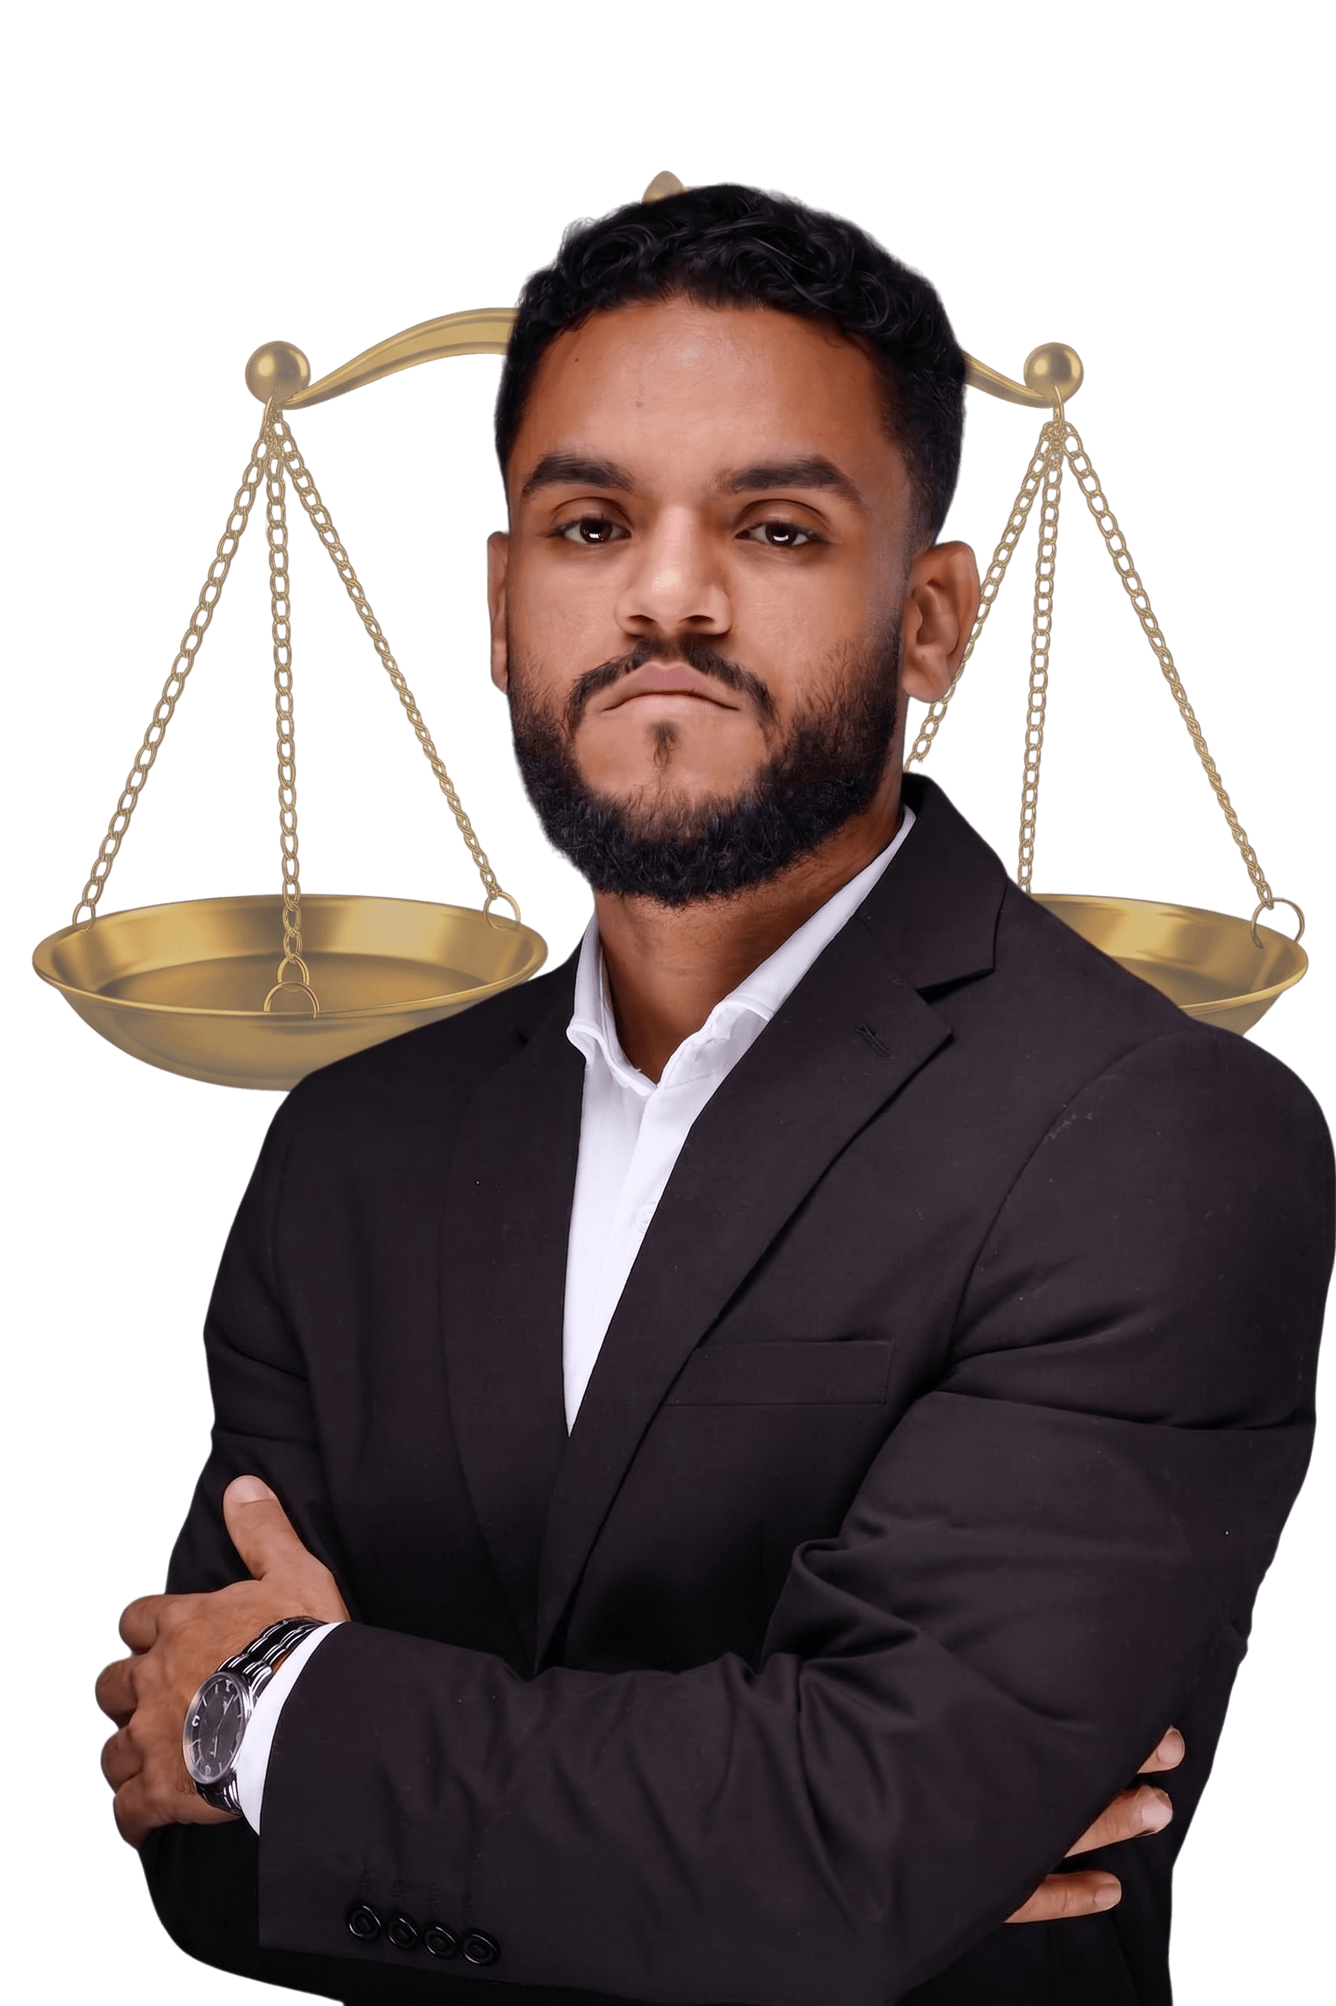
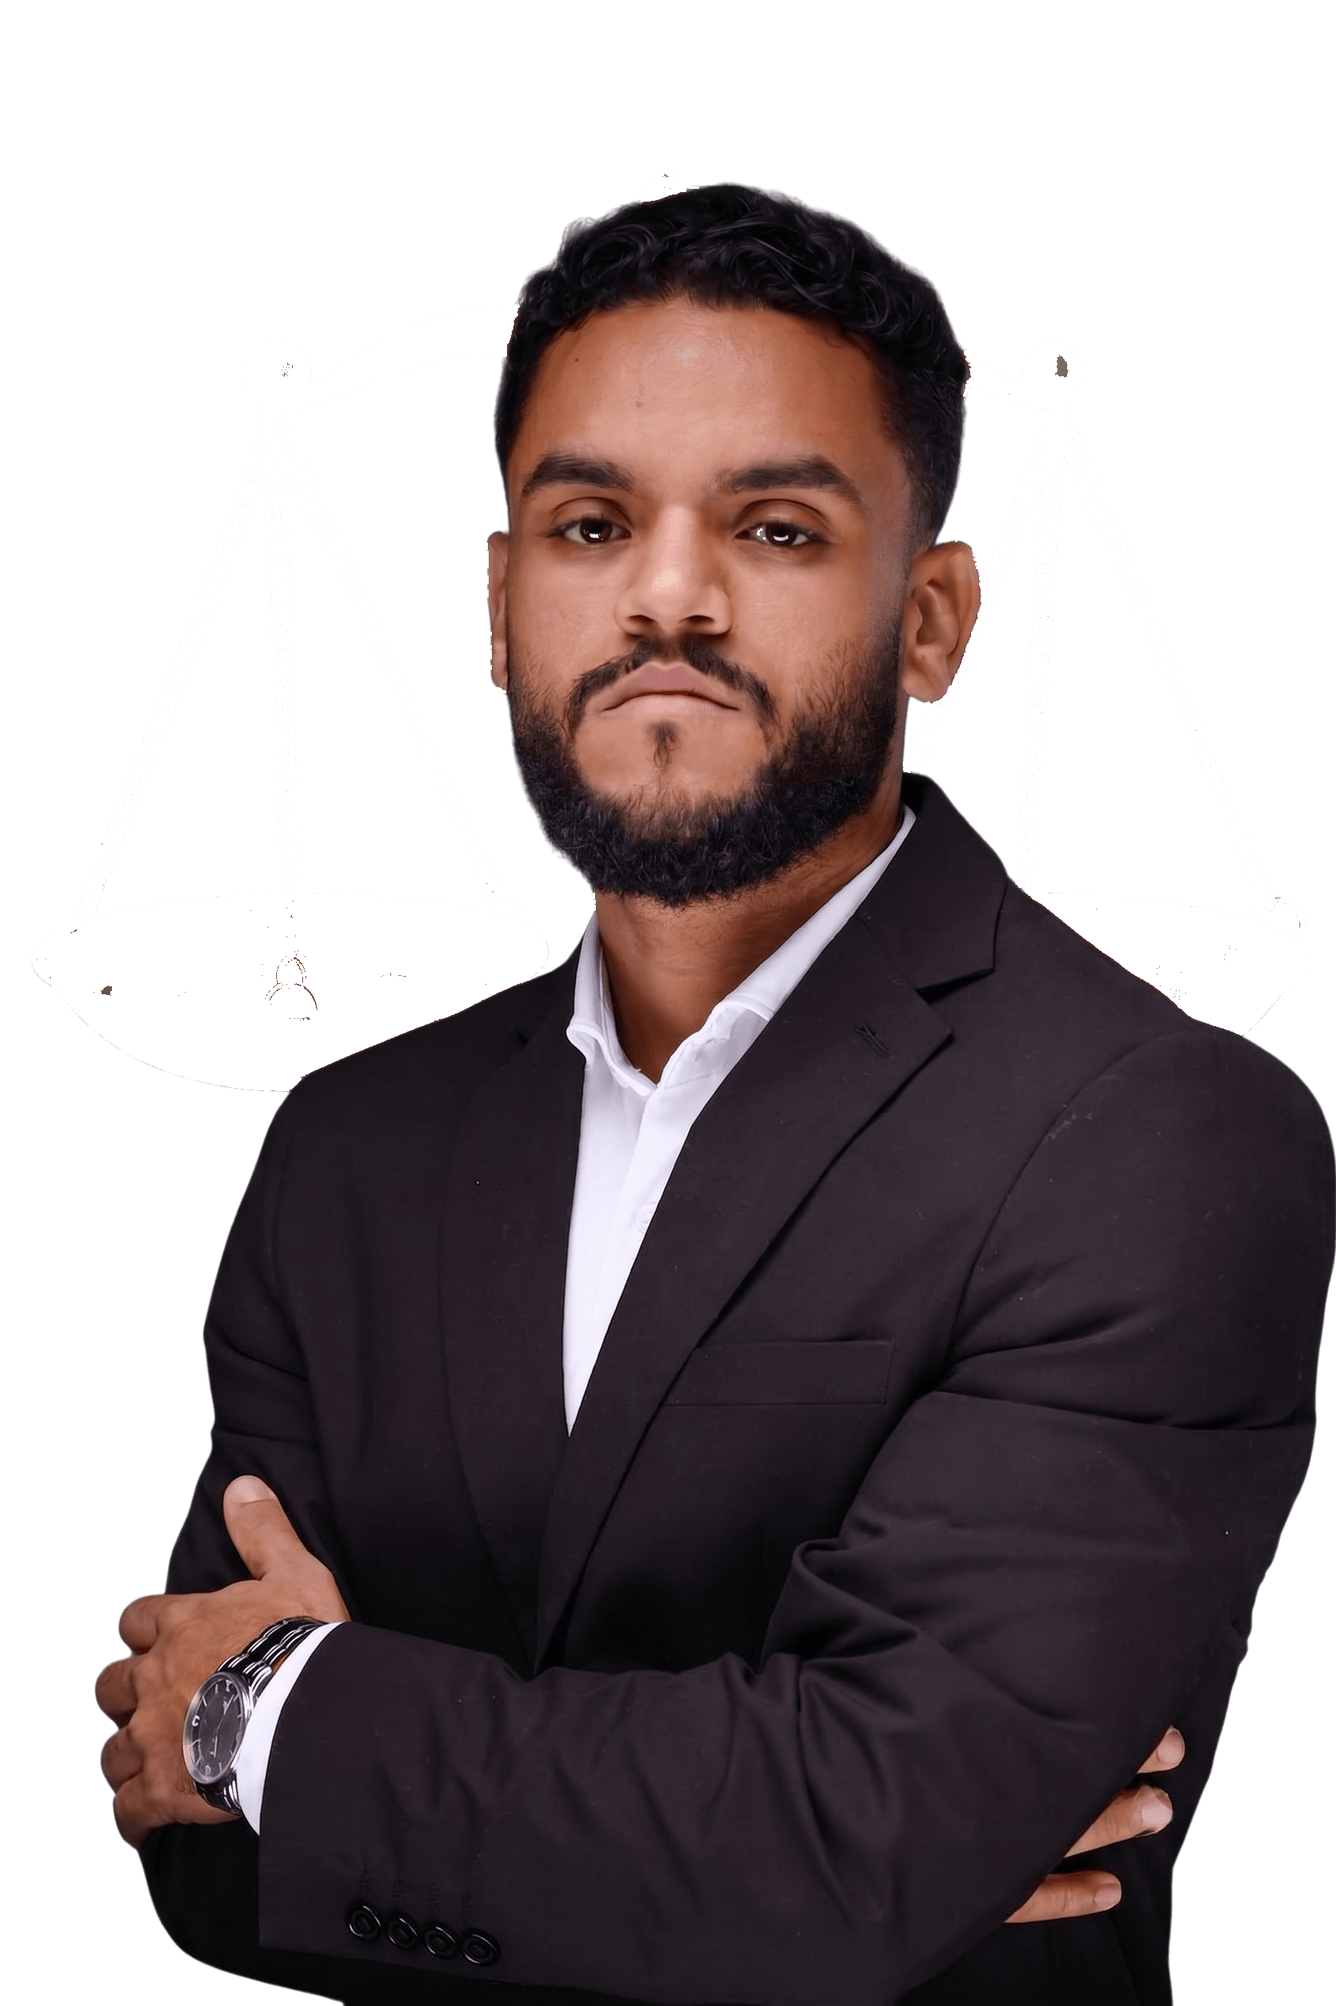
Marca de escritório: Kovaleski Advogados, foto sem balança, 9ª situação
Quatro mudanças pedidas pelo Douglas, todas de leitura "escritório"
em vez de "advogado autônomo":

- Cabeçalho e rodapé assinam "Kovaleski Advogados" / "Advocacia
  Criminal e Empresarial", no lugar de "Douglas Kovaleski" /
  "Advocacia Criminal". Nome pessoal continua em título de página e
  no schema.org, onde a autoridade individual importa.
- hero.webp perdeu a balança da justiça que ficava atrás dele
  (isolada por cor e removida via script, arquivo original preservado
  no histórico do git).
- Nova situação "Atendimento em delegacia" (ordem 3, entre habeas
  corpus e intimação para depor) fecha a grade em 3x3 e resolve uma
  frente da lista original do Douglas que não tinha página própria.
  Demais situações renumeradas.
- "Trabalho sozinho" removido de /sobre/, do rodapé e do passo 1 do
  fluxo na home (ele tem parceiros agora). Trocado por "quem conduz
  o seu caso" / voz institucional "nós", sem inventar número de
  sócio ou funcionário.

_memoria/empresa.md e identidade/design-guide.md atualizados para as
próximas peças (carrossel, post) já nascerem com a marca certa.

diff --git a/site/astro-site/src/consts.ts b/site/astro-site/src/consts.ts
@@ -7,7 +7,7 @@
 export const SITE = {
   nome: 'Douglas Kovaleski',
   assinatura: 'Kovaleski Advogados',
-  subtitulo: 'Advocacia Criminal no Rio de Janeiro',
+  subtitulo: 'Advocacia Criminal e Empresarial no Rio de Janeiro',
   /** Exigida pelo Provimento 205/2021 do CFOB em toda peça de publicidade. */
   oab: 'OAB/RJ 249.333',
   url: 'https://kovaleskiadvogados.netlify.app',
@@ -40,7 +40,7 @@ export const ETAPAS = [
     numero: '01',
     titulo: 'Contato',
     texto:
-      'Você fala direto comigo pelo WhatsApp. Sem intermediário, sem central de atendimento.',
+      'Você fala direto com quem vai cuidar do seu caso pelo WhatsApp. Sem intermediário, sem central de atendimento.',
   },
   {
     numero: '02',

diff --git a/_memoria/empresa.md b/_memoria/empresa.md
@@ -2,15 +2,15 @@
 
 > Memória central do negócio. O Claude lê esse arquivo antes de cada resposta.
 
-**Nome:** Douglas Kovaleski (marca pessoal). Assina também como Kovaleski Advogados.
+**Nome:** Kovaleski Advogados é a marca pública desde 12/08/2026 (antes, o cabeçalho e o rodapé do site assinavam como "Douglas Kovaleski"). Douglas Kovaleski é o advogado à frente do escritório, e o nome dele continua em título de página e no schema.org, onde a autoridade pessoal importa.
 **Inscrição:** OAB/RJ 249.333, confirmada por ele em 12/08/2026. Toda peça de publicidade deve exibir esse número (Provimento 205/2021 do CFOB).
 **Negócio:** Advocacia — Direito Criminal e Empresarial.
 **O que faz:** Defesa criminal com estratégia, sigilo e resposta rápida, no Rio de Janeiro. Atende urgência (flagrante, custódia, intimação) e também assessoria jurídica preventiva para empresários e empresas.
-**Perfil:** Solopreneur / marca pessoal.
+**Perfil:** Escritório com equipe. Douglas confirmou em 12/08/2026 que tem parceiros trabalhando com ele (função e número não informados) e que a intenção é crescer, com o máximo possível de imagem de estrutura de escritório. O MazyOS segue instalado como perfil solopreneur/marca pessoal (ver `CLAUDE.md`) — vale revisar esse rótulo se a equipe continuar crescendo.
 **Atende clientes:**
 - **Criminal (carro-chefe):** pessoa física em situação urgente no RJ — familiar preso em flagrante, pessoa intimada a depor, investigado em inquérito, réu em processo criminal, execução penal (progressão, liberdade, remição) e família de adolescente em ECA/DEGASE. Quem procura está com medo e com pressa; a decisão de contratar acontece em horas, não em semanas.
 - **Empresarial:** empresários e empresas que querem segurança na tomada de decisão, prevenção de risco e defesa de patrimônio. O enquadramento dado pelo cliente em 11/08/2026: escritório **full service** para o empresário, com foco em advocacia **preventiva**, dando apoio jurídico contínuo à empresa, mantendo a organização e mitigando risco. Quando o problema acontece mesmo assim, o mesmo escritório faz a representação no processo.
-**Equipe:** Sozinho. Atendimento direto com o advogado, sem intermediário — isso é argumento de venda, não limitação.
+**Equipe:** Não é advogado autônomo trabalhando sozinho — tem parceiros. Evitar "eu trabalho sozinho" ou equivalente em qualquer peça nova. O atendimento direto continua sendo argumento de venda, só que reformulado: quem procura fala com quem conduz o caso, não com central de atendimento nem com intermediário.
 **Ferramentas:**
 - WhatsApp (21) 99026-7742 — principal porta de entrada
 - Instagram [@advdouglaskovaleski](https://www.instagram.com/advdouglaskovaleski/)
@@ -24,7 +24,9 @@
 ## Contexto adicional
 
 - O site comunica as **duas áreas** desde 11/08/2026. O empresarial ganhou página própria em `/empresarial/`, entrada no menu, coluna no rodapé e link no cartão de áreas da home. O criminal segue sendo o carro-chefe e ocupa a home inteira.
-- A assinatura pública ainda diz "Advocacia Criminal no Rio de Janeiro" (rodapé e títulos das páginas). Ficou estreita depois que o empresarial entrou, mas mudar a linha de posicionamento é decisão do Douglas.
+- A marca pública mudou em 12/08/2026: cabeçalho e rodapé do site (e o design-guide, pra valer em qualquer peça nova) assinam como "Kovaleski Advogados" / "Advocacia Criminal e Empresarial", no lugar do nome pessoal "Douglas Kovaleski" / "Advocacia Criminal". Decisão dele, para reforçar leitura de escritório, não de advogado autônomo.
+- A foto do hero (`site/astro-site/src/assets/hero.webp`) perdeu a balança da justiça que ficava atrás dele, a pedido dele em 12/08/2026 ("acho que vai ficar mais leve"). Não reintroduzir esse elemento em peças novas.
+- A grade de situações no site tem 9 cartões, não 8: entrou "Atendimento em delegacia", que estava na lista dele e não tinha página própria.
 - O WhatsApp é o **mesmo** para as duas áreas. O empresário e a família de alguém preso caem na mesma caixa de entrada, com mensagem pré-preenchida diferente mas número igual. Ainda não foi decidido se vale separar.
 - Já houve golpista se passando pelo escritório — por isso os canais oficiais são reforçados publicamente. Qualquer material que peça contato deve apontar para os canais oficiais acima.
 - Fluxo de atendimento divulgado: (1) contato pelo WhatsApp → (2) análise técnica do cenário → (3) estratégia para o caso concreto → (4) acompanhamento.

diff --git a/site/astro-site/src/content/situacoes/atendimento-em-delegacia.md b/site/astro-site/src/content/situacoes/atendimento-em-delegacia.md
@@ -1,0 +1,61 @@
+---
+titulo: 'Atendimento em delegacia'
+chamada: 'Preciso ir a uma delegacia'
+resumo: 'Nem toda ida à delegacia vem com intimação por escrito. Um telefonema, um pedido informal, uma vontade de registrar queixa: tudo isso também é atendimento em delegacia, e tudo isso também merece orientação antes de entrar.'
+descricao: 'Precisa ir a uma delegacia no Rio de Janeiro, com ou sem intimação formal? Entenda por que vale se orientar antes de entrar, seja como vítima, testemunha ou investigado.'
+ordem: 3
+relogio: 'Vale desde o primeiro contato com a delegacia'
+mensagemWhatsapp: 'Olá, doutor. Preciso ir a uma delegacia e gostaria de orientação antes.'
+keywords:
+  - advogado delegacia rio de janeiro
+  - acompanhamento em delegacia
+  - preciso ir a delegacia advogado
+  - registrar boletim de ocorrência advogado
+perguntas:
+  - pergunta: 'Preciso de advogado para registrar um boletim de ocorrência?'
+    resposta: 'Não é obrigatório. Mas se o que aconteceu tem qualquer chance de virar um procedimento contra você também, não só a favor, vale entender isso antes de registrar, não depois.'
+  - pergunta: 'Fui chamado por telefone, sem intimação por escrito. Preciso ir mesmo assim?'
+    resposta: 'Depende do motivo do chamado e da sua posição nele, e isso normalmente não fica claro numa ligação. Antes de decidir se vai e como vai, vale entender em que qualidade você está sendo chamado.'
+  - pergunta: 'Ir acompanhado de advogado atrapalha o atendimento?'
+    resposta: 'Não. A presença do advogado não atrasa nem prejudica o procedimento. Ela garante que o que for dito seja registrado do jeito certo, e isso vale tanto para quem vai prestar queixa quanto para quem foi chamado a explicar algo.'
+---
+
+Tem gente que só pensa em advogado quando já recebeu uma intimação formal, em papel timbrado, com data marcada.
+
+Mas boa parte do que acontece numa delegacia começa bem antes disso: um telefonema pedindo para "passar lá", uma vontade de registrar uma ocorrência, um pedido de um familiar que também foi chamado. Nada disso parece grande coisa na hora.
+
+## O que conta como atendimento em delegacia
+
+Qualquer ida à delegacia é atendimento em delegacia, com ou sem papel na mão. Registrar um boletim de ocorrência como vítima. Ser chamado informalmente para "esclarecer um ponto". Acompanhar um parente que precisa ir e não quer ir sozinho.
+
+A diferença entre isso e uma intimação formal para depor não está no tamanho do problema. Está em quanto aviso você teve antes de precisar decidir alguma coisa.
+
+## O erro mais comum
+
+O erro mais comum é achar que, por ser informal, o que for dito ali não pesa.
+
+Pesa. Tudo o que é registrado numa delegacia, seja boletim de ocorrência, seja termo de declaração, vira documento. E documento não se apaga por ter sido produzido numa conversa que parecia simples.
+
+Tem outro detalhe que costuma passar despercebido: quem chega como vítima para registrar uma ocorrência às vezes sai de lá numa posição diferente da que imaginava, dependendo do que é dito e de como é dito. A mesma história contada sem cuidado pode abrir uma frente que não existia antes.
+
+## Antes de entrar
+
+Antes de qualquer coisa, vale entender em que qualidade você está indo: vítima, testemunha ou alguém que pode, mesmo sem saber, estar sendo investigado.
+
+Vale também entender o que exatamente vai ser registrado e por quê. Uma conversa de cinco minutos ao telefone raramente dá conta disso.
+
+Não é preciso ter uma intimação em mãos para merecer essa conversa antes.
+
+## Onde entra o advogado
+
+Antes de entrar na delegacia, o trabalho é entender o que motivou o chamado e o que está em jogo para você especificamente.
+
+Dentro da delegacia, a presença do advogado garante que o que for registrado saia do jeito que você disse, e não do jeito que ficou depois de reescrito.
+
+Isso vale tanto para quem vai denunciar algo quanto para quem foi chamado a se explicar.
+
+## Antes de ir, me conta o que está acontecendo
+
+Se você recebeu um chamado, mesmo informal, ou está pensando em registrar uma ocorrência, me chame no WhatsApp antes de ir.
+
+Cinco minutos de conversa antes costumam valer mais do que uma explicação depois que já foi tudo registrado.

diff --git a/identidade/design-guide.md b/identidade/design-guide.md
@@ -64,7 +64,7 @@ O visual precisa transmitir discrição e seriedade — quem vê está passando 
 
 - **Arquivo:** *não existe ainda* — confirmado na instalação
 - **Versão pra fundo escuro:** —
-- **Enquanto não houver logo:** assinar as peças com o nome em serifa caixa alta — `DOUGLAS KOVALESKI` em branco, `ADVOCACIA CRIMINAL` menor e em dourado logo abaixo
+- **Enquanto não houver logo:** assinar as peças com o nome em serifa caixa alta — `KOVALESKI ADVOGADOS` em branco, `ADVOCACIA CRIMINAL E EMPRESARIAL` menor e em dourado logo abaixo. É a leitura de escritório que ele quer passar, não de advogado autônomo — ver `_memoria/empresa.md`.
 - **Onde usar:** slide final do carrossel (CTA), header de propostas, slides de apresentação
 - **Tamanho sugerido:** largura entre 120-200px nos HTMLs
 
@@ -73,4 +73,6 @@ O visual precisa transmitir discrição e seriedade — quem vê está passando 
 ## Observações adicionais
 
 - Peças de utilidade pública (alerta de golpe, canais oficiais) usam o mesmo padrão do post original: título em duas cores, bloco emoldurado com os contatos, selo de confirmação no rodapé.
-- Assinatura institucional das peças: `Kovaleski Advogados • Advocacia Criminal no Rio de Janeiro`.
+- Assinatura institucional das peças: `Kovaleski Advogados • Advocacia Criminal e Empresarial no Rio de Janeiro`.
+- Foto do Douglas (`site/astro-site/src/assets/hero.webp`): é o retrato de terno, braços cruzados, fundo transparente. A versão da balança da justiça atrás dele foi removida em 12/08/2026, a pedido dele ("acho que vai ficar mais leve") — não reintroduzir esse elemento em peças novas, nem em versão editada da mesma foto.
+- Linguagem de equipe: evitar "eu trabalho sozinho" ou equivalente em qualquer peça. Ele tem parceiros trabalhando com ele e a marca quer passar imagem de escritório, não de advogado autônomo. Preferir "quem conduz o seu caso" / "nós" no institucional.

diff --git a/site/astro-site/src/content/situacoes/adolescente-apreendido.md b/site/astro-site/src/content/situacoes/adolescente-apreendido.md
@@ -3,7 +3,7 @@ titulo: 'Adolescente apreendido: ECA e DEGASE'
 chamada: 'Apreenderam um adolescente da família'
 resumo: 'Adolescente não responde a processo criminal, responde a ato infracional. Regras próprias, prazos próprios e uma audiência que acontece rápido.'
 descricao: 'Adolescente apreendido no Rio de Janeiro? Entenda o procedimento do ECA, o papel do DEGASE, as medidas socioeducativas e o que a família deve fazer.'
-ordem: 8
+ordem: 9
 relogio: 'Internação provisória: 45 dias'
 mensagemWhatsapp: 'Olá, doutor. Um adolescente da minha família foi apreendido e preciso de ajuda.'
 keywords:

diff --git a/site/astro-site/src/content/situacoes/execucao-penal.md b/site/astro-site/src/content/situacoes/execucao-penal.md
@@ -3,7 +3,7 @@ titulo: 'Execução penal, progressão e liberdade'
 chamada: 'Cumprindo pena e com direito parado'
 resumo: 'Progressão de regime, livramento condicional, remição por trabalho ou estudo. Direito que existe na lei mas não anda sozinho no processo.'
 descricao: 'Execução penal no Rio de Janeiro: progressão de regime, livramento condicional, remição e indulto. Entenda por que esses pedidos precisam ser requeridos.'
-ordem: 7
+ordem: 8
 relogio: 'Requisito cumprido não anda sozinho'
 mensagemWhatsapp: 'Olá, doutor. Preciso de ajuda com um pedido na execução penal.'
 keywords:

diff --git a/site/astro-site/src/content/situacoes/intimacao-para-depor.md b/site/astro-site/src/content/situacoes/intimacao-para-depor.md
@@ -3,7 +3,7 @@ titulo: 'Intimação para depor na delegacia'
 chamada: 'Recebi uma intimação para depor'
 resumo: 'Comparecer é uma coisa. Falar é outra. O que você diz em depoimento fica no processo até o fim, e não tem como voltar atrás.'
 descricao: 'Recebeu intimação para depor na delegacia no Rio de Janeiro? Entenda a diferença entre comparecer e falar, e por que ir acompanhado de advogado muda o depoimento.'
-ordem: 3
+ordem: 4
 relogio: 'Até a data da intimação'
 mensagemWhatsapp: 'Olá, doutor. Recebi uma intimação para depor e preciso de orientação.'
 keywords:

diff --git a/site/astro-site/src/content/situacoes/inquerito-policial.md b/site/astro-site/src/content/situacoes/inquerito-policial.md
@@ -3,7 +3,7 @@ titulo: 'Inquérito policial em andamento'
 chamada: 'Estou sendo investigado'
 resumo: 'O inquérito é a fase em que a acusação é montada. Advogado só na hora da denúncia é advogado chamado tarde.'
 descricao: 'Está sendo investigado em inquérito policial no Rio de Janeiro? Entenda como funciona a fase de investigação e por que a defesa começa antes da denúncia.'
-ordem: 4
+ordem: 5
 relogio: 'Enquanto a investigação corre'
 mensagemWhatsapp: 'Olá, doutor. Estou sendo investigado em um inquérito e preciso de orientação.'
 keywords:

diff --git a/site/astro-site/src/content/situacoes/medidas-protetivas.md b/site/astro-site/src/content/situacoes/medidas-protetivas.md
@@ -3,7 +3,7 @@ titulo: 'Medidas protetivas e cautelares'
 chamada: 'Tem uma medida protetiva contra mim'
 resumo: 'Medida protetiva não é condenação, mas o descumprimento leva à prisão. Existe defesa técnica dos dois lados dessa história.'
 descricao: 'Medida protetiva de urgência no Rio de Janeiro: o que ela proíbe, o que acontece em caso de descumprimento e como funciona a defesa técnica.'
-ordem: 6
+ordem: 7
 relogio: 'Vale desde a notificação'
 mensagemWhatsapp: 'Olá, doutor. Preciso de orientação sobre uma medida protetiva.'
 keywords:

diff --git a/site/astro-site/src/content/situacoes/processo-criminal.md b/site/astro-site/src/content/situacoes/processo-criminal.md
@@ -3,7 +3,7 @@ titulo: 'Defesa em processo criminal e recursos'
 chamada: 'Virei réu em um processo'
 resumo: 'Denúncia recebida, ação penal em curso. Cada prazo perdido nessa fase é um argumento que a defesa não usa mais.'
 descricao: 'Denúncia recebida e processo criminal em andamento no Rio de Janeiro? Entenda as fases da ação penal, o papel da resposta à acusação e dos recursos.'
-ordem: 5
+ordem: 6
 relogio: 'Prazo próprio em cada fase'
 mensagemWhatsapp: 'Olá, doutor. Sou réu em um processo criminal e preciso de defesa.'
 keywords:
